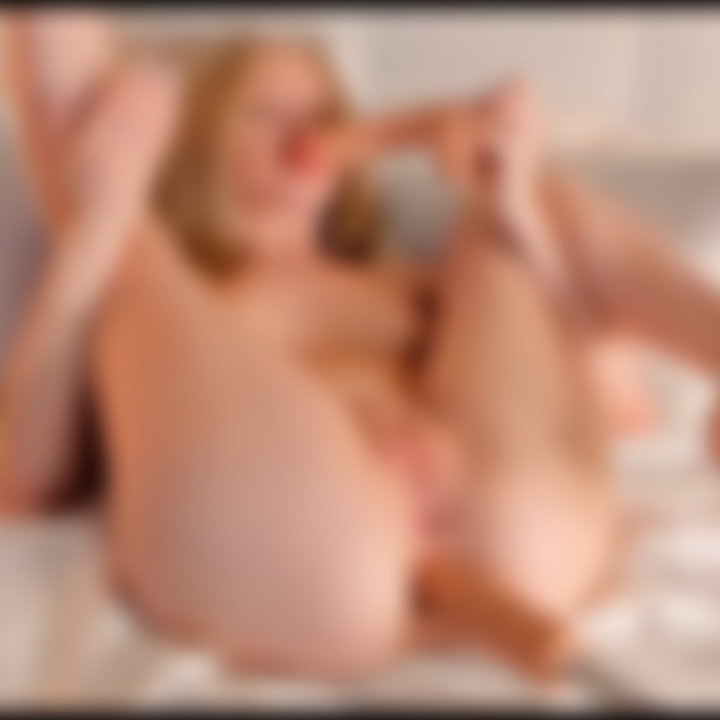
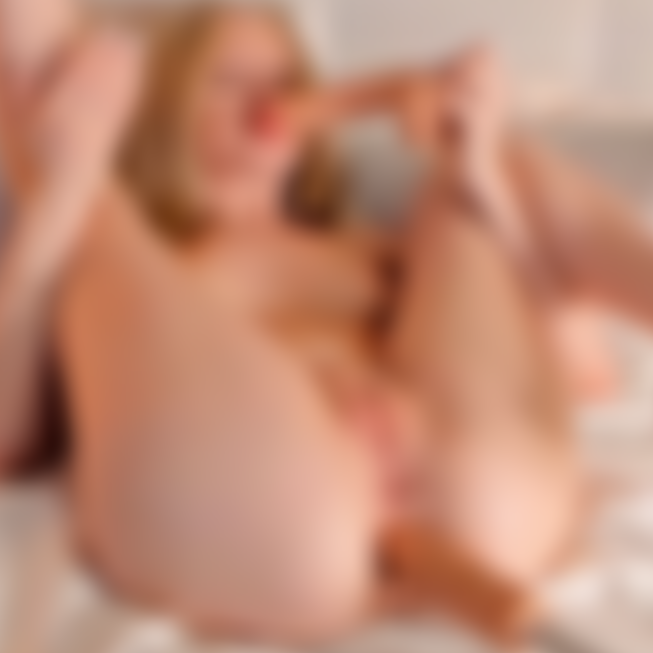
Atualiza imagens e ordem das ofertas

diff --git a/app/priv/page.tsx b/app/priv/page.tsx
@@ -11,26 +11,26 @@ const profileImage =
 
 const offers = [
   {
-    title: "Álbum VIP total",
-    description: "Mais vendido · Todos os álbuns abaixo inclusos neste pacote",
+    title: "🎁 💎 Álbum VIP total ⭐ MAIS VENDIDO ⭐",
+    description: "Todos os álbuns inclusos 🔥",
     price: "R$ 27,99",
     oldPrice: "R$ 127,99",
     accent: "VIP",
     image: "/images/vip-album.png",
   },
   {
-    title: "Álbum exclusivo",
+    title: "📸 Pacote básico 🌸",
+    description: "Poucas fotos, do jeitinho certo",
+    price: "R$ 7,99",
+    accent: "BÁSICO",
+    image: "/images/basic-package.png",
+  },
+  {
+    title: "🎬 Álbum exclusivo 💎",
     description: "Conteúdo selecionado para você",
     price: "R$ 16,99",
     accent: "EXCLUSIVO",
     image: "/images/exclusive-album.png",
-  },
-  {
-    title: "Pacote básico",
-    description: "Com poucas fotos",
-    price: "R$ 7,99",
-    accent: "BÁSICO",
-    image: "/images/basic-package.png",
   },
 ]
 
